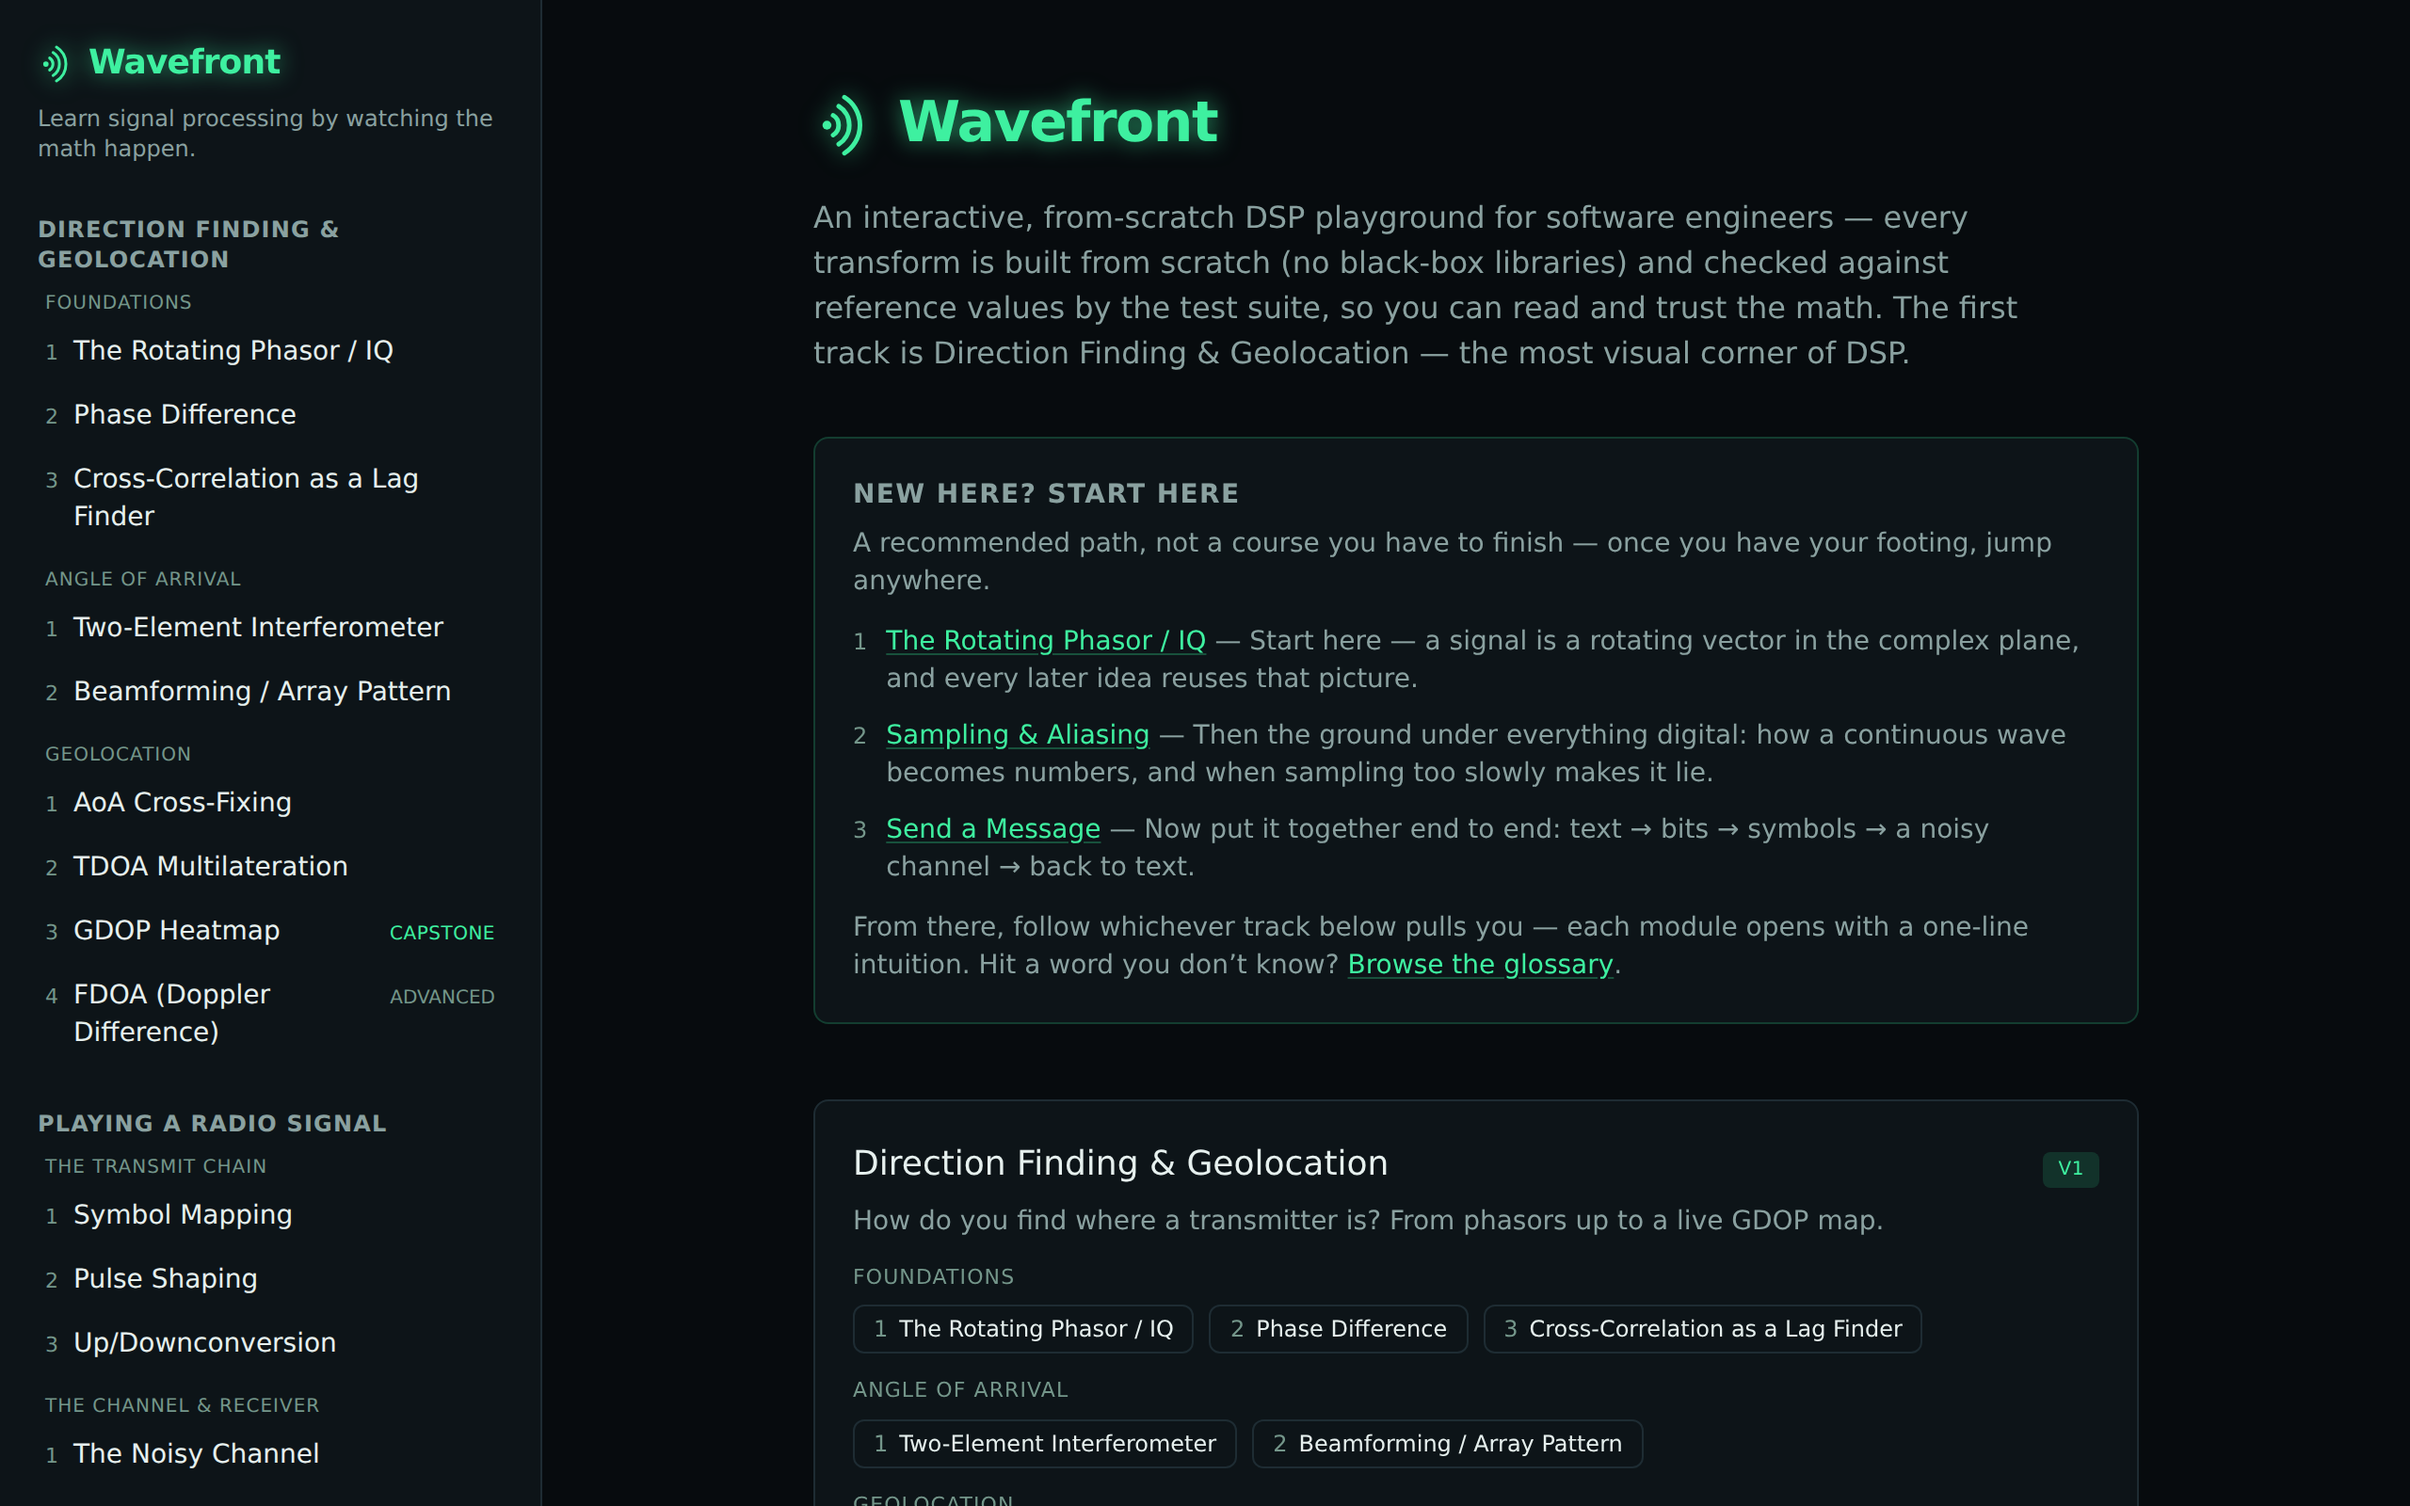
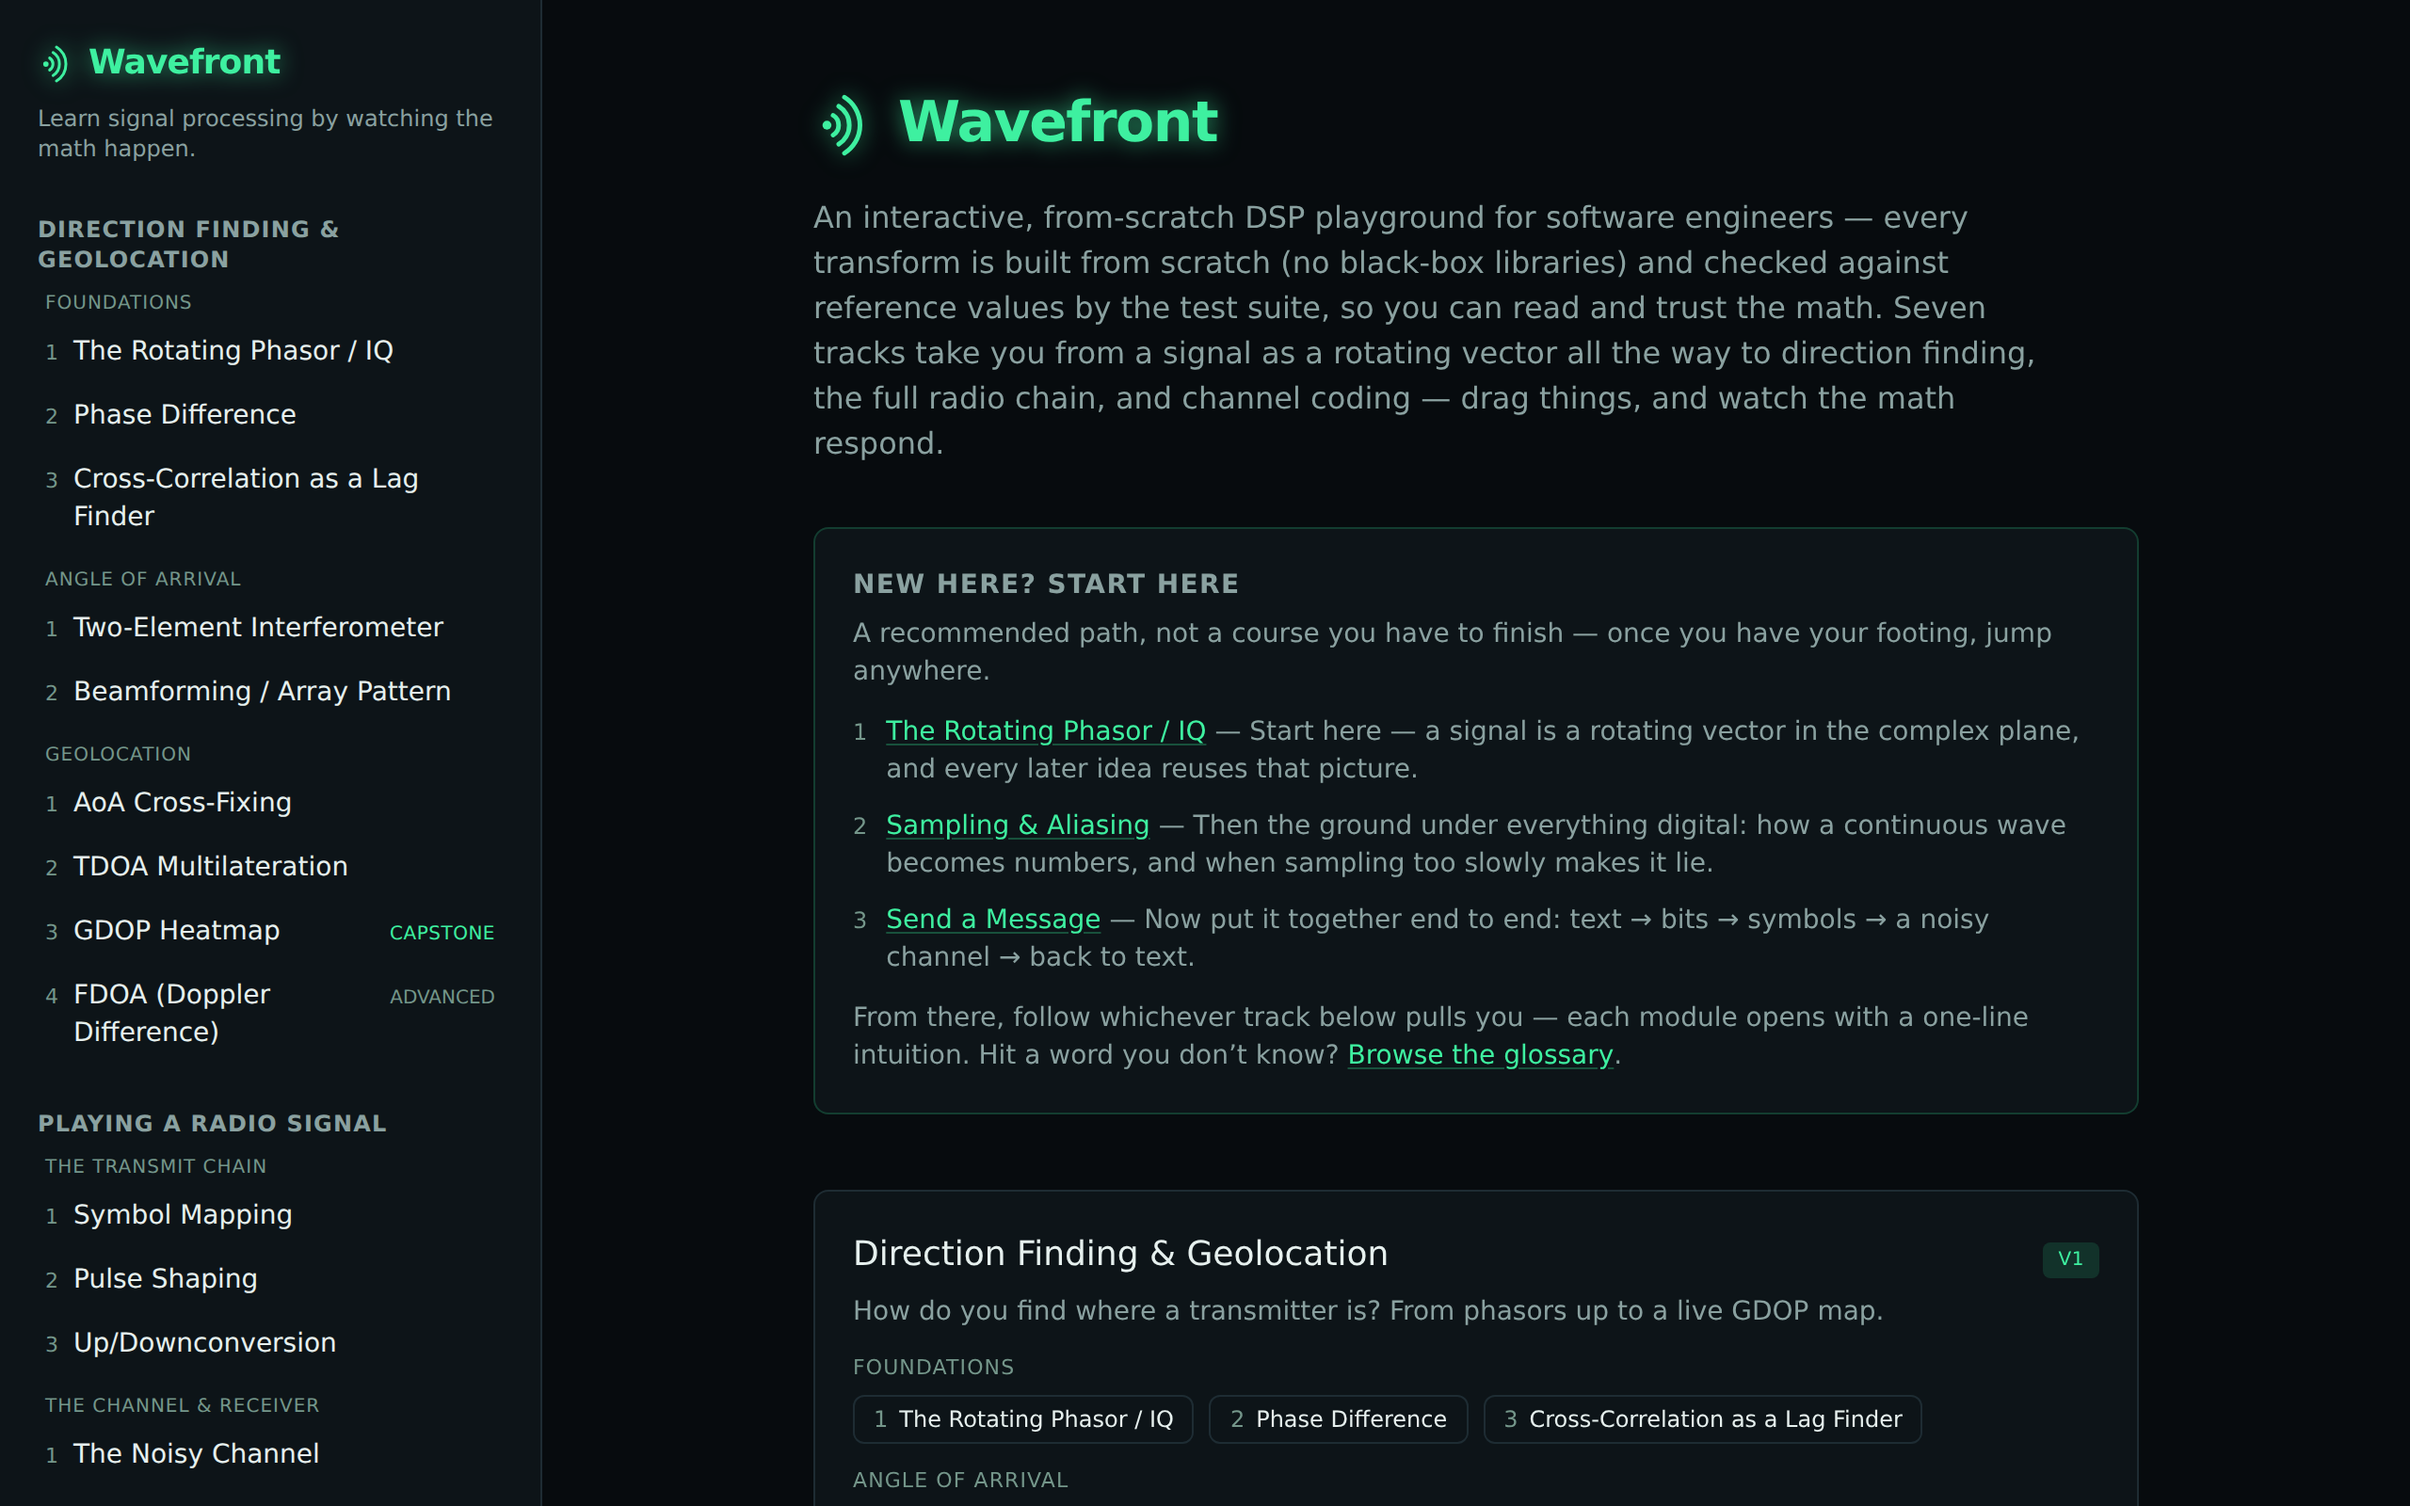
Fix stale hero copy: advertise track breadth, drop superlative
The hero's final sentence ("The first track is Direction Finding &
Geolocation — the most visual corner of DSP") framed build order rather
than where to start — contradicting the Start Here panel directly below
it — and leaned on an unprovable superlative the rest of the page
scrupulously avoids.

Replace only that sentence with a breadth pitch spanning all seven
tracks (count verified against the registry), ending on the app's core
interaction. First sentence, Start Here panel, and layout untouched.
Regenerate the landing screenshot.

Claude-Session: https://claude.ai/code/session_01GBYTQ4Nk2rQXCrEvvtbQvP

Changed region(s): [[0.3438, 0.1875, 0.875, 0.7188], [0.3438, 0.75, 0.7812, 1.0], [0.8438, 0.75, 0.875, 0.875]]

diff --git a/src/config.ts b/src/config.ts
@@ -11,5 +11,6 @@ export const APP_TAGLINE = 'Learn signal processing by watching the math happen.
 export const APP_DESCRIPTION =
   'An interactive, from-scratch DSP playground for software engineers — every transform is built ' +
   'from scratch (no black-box libraries) and checked against reference values by the test suite, ' +
-  'so you can read and trust the math. The first track is Direction Finding & Geolocation — the ' +
-  'most visual corner of DSP.';
+  'so you can read and trust the math. Seven tracks take you from a signal as a rotating vector ' +
+  'all the way to direction finding, the full radio chain, and channel coding — drag things, and ' +
+  'watch the math respond.';
